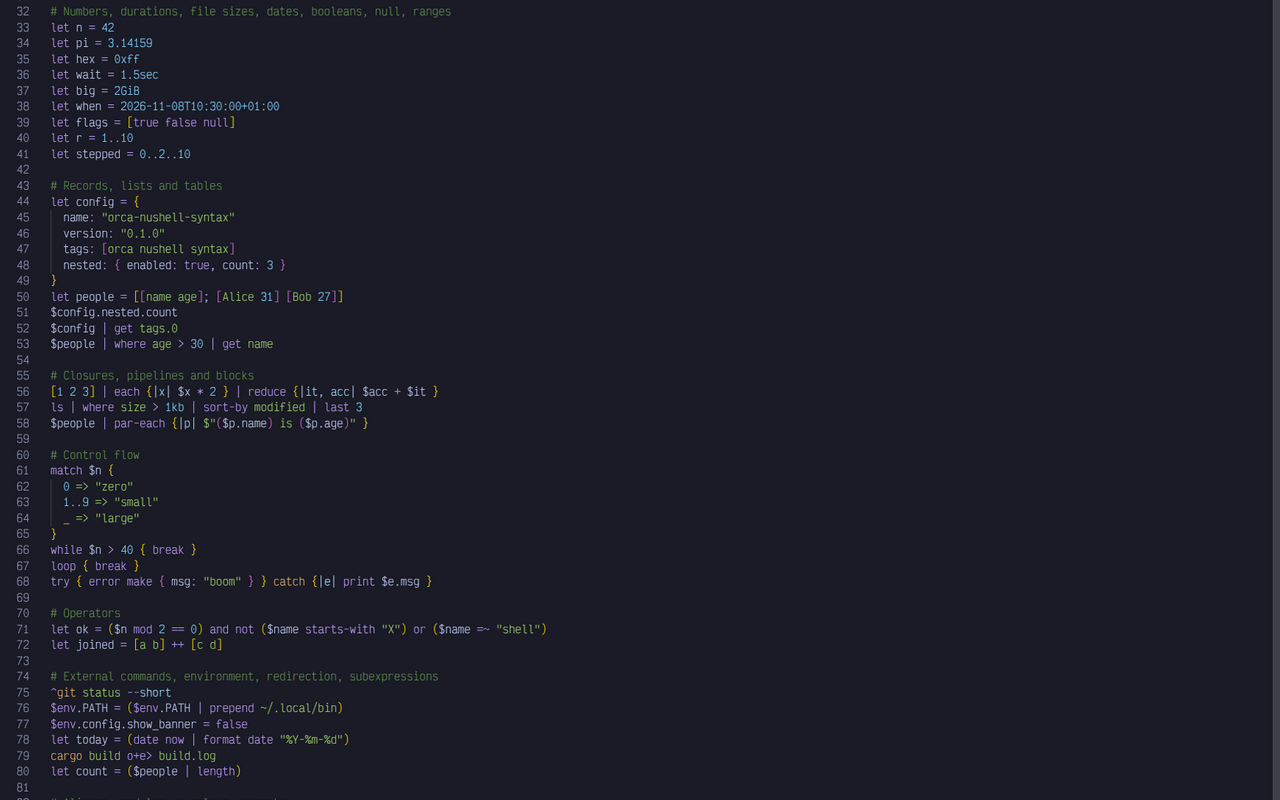
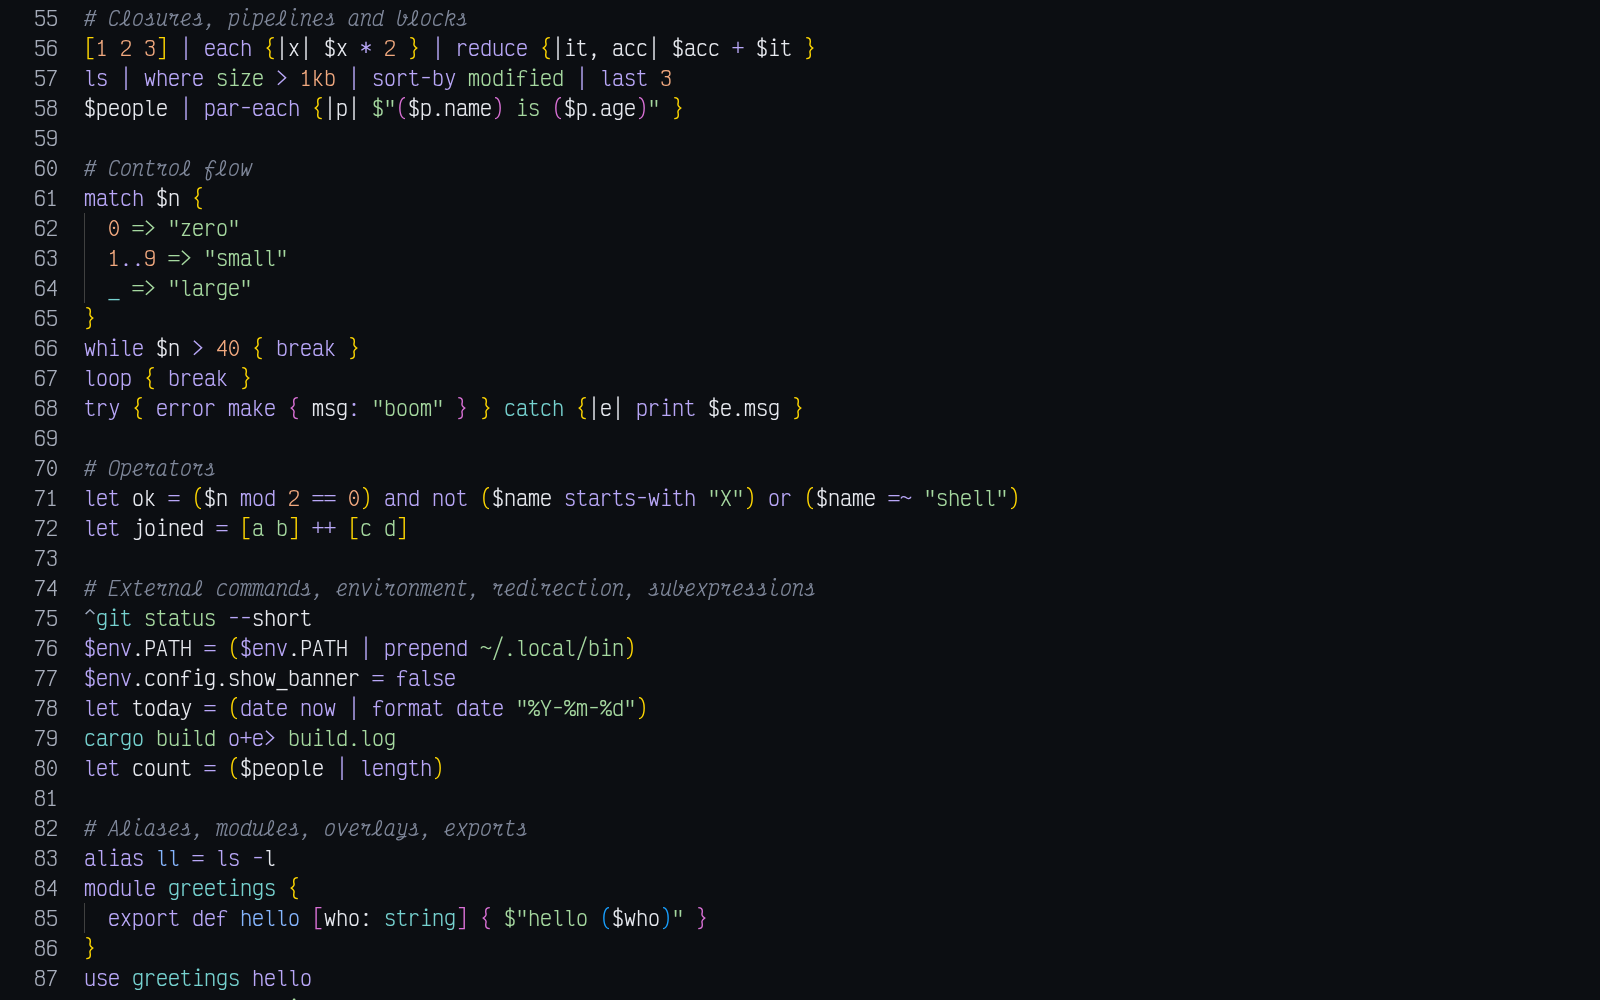
Retake the cover and the screenshot at 1600×1000
The cover was 944×590, under the 1600×1000 Orca recommends, and the screenshot showed
mostly the same lines. Both are now real captures of Orca's editor at 1600×1000, cut on
whole lines with nothing but the editor in frame: the cover shows a typed custom
command, strings and values; the screenshot shows closures, control flow, operators,
external commands and modules.

The README opens on the cover, which says more about the language at a glance.

diff --git a/README.md b/README.md
@@ -2,7 +2,7 @@
 
 Nushell syntax highlighting for [Orca](https://www.onorca.dev): `.nu` scripts and `.nuon` data files.
 
-![Highlighted Nushell values with units and dates, records, tables, closures, match, operators and external commands in Orca's editor](images/editor.png)
+![A Nushell script in Orca's editor: a typed custom command, strings with interpolation, numbers, durations, file sizes, dates and ranges, each in its own color](images/cover.png)
 
 ## What it adds
 

diff --git a/CHANGELOG.md b/CHANGELOG.md
@@ -7,6 +7,7 @@ What changed for someone who installs the plugin, newest first. Versions follow
 
 - The grammar's license ships beside it as `syntaxes/nushell-LICENSE.txt`.
 - The manifest names the plugin's author.
+- A sharper cover and screenshot on the plugin's page, showing two different parts of a script.
 
 ## 0.1.0 (2026-11-08)
 
